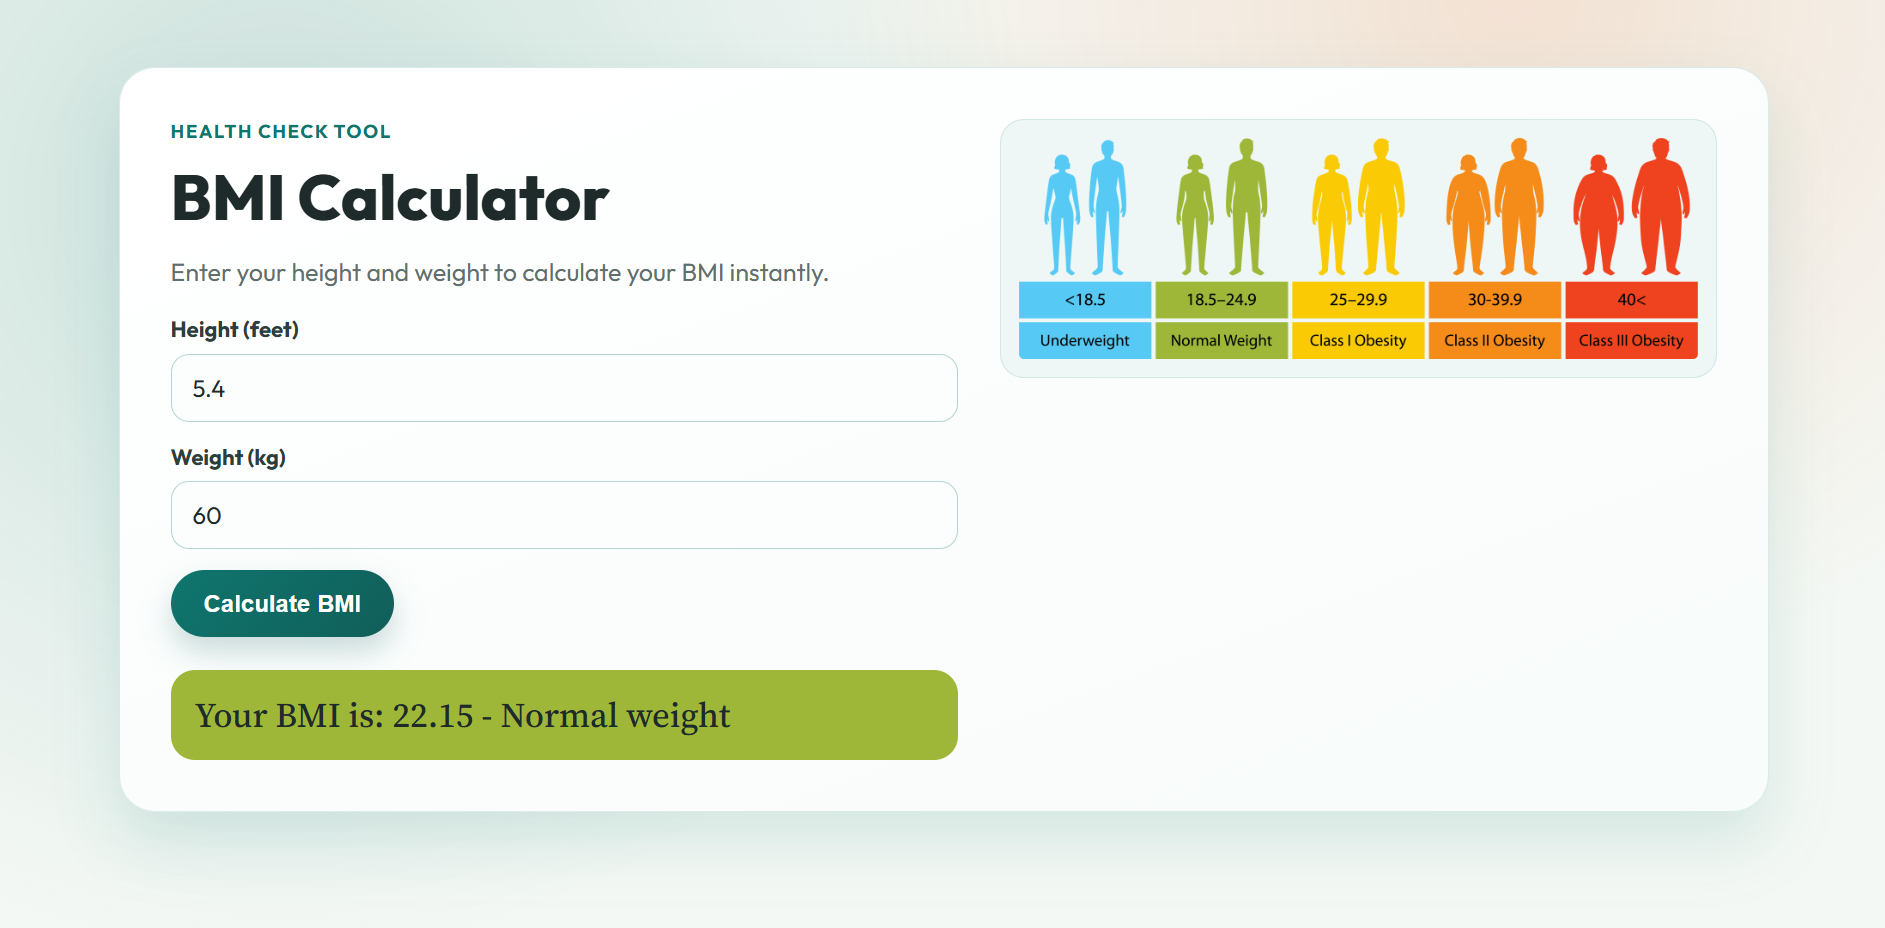
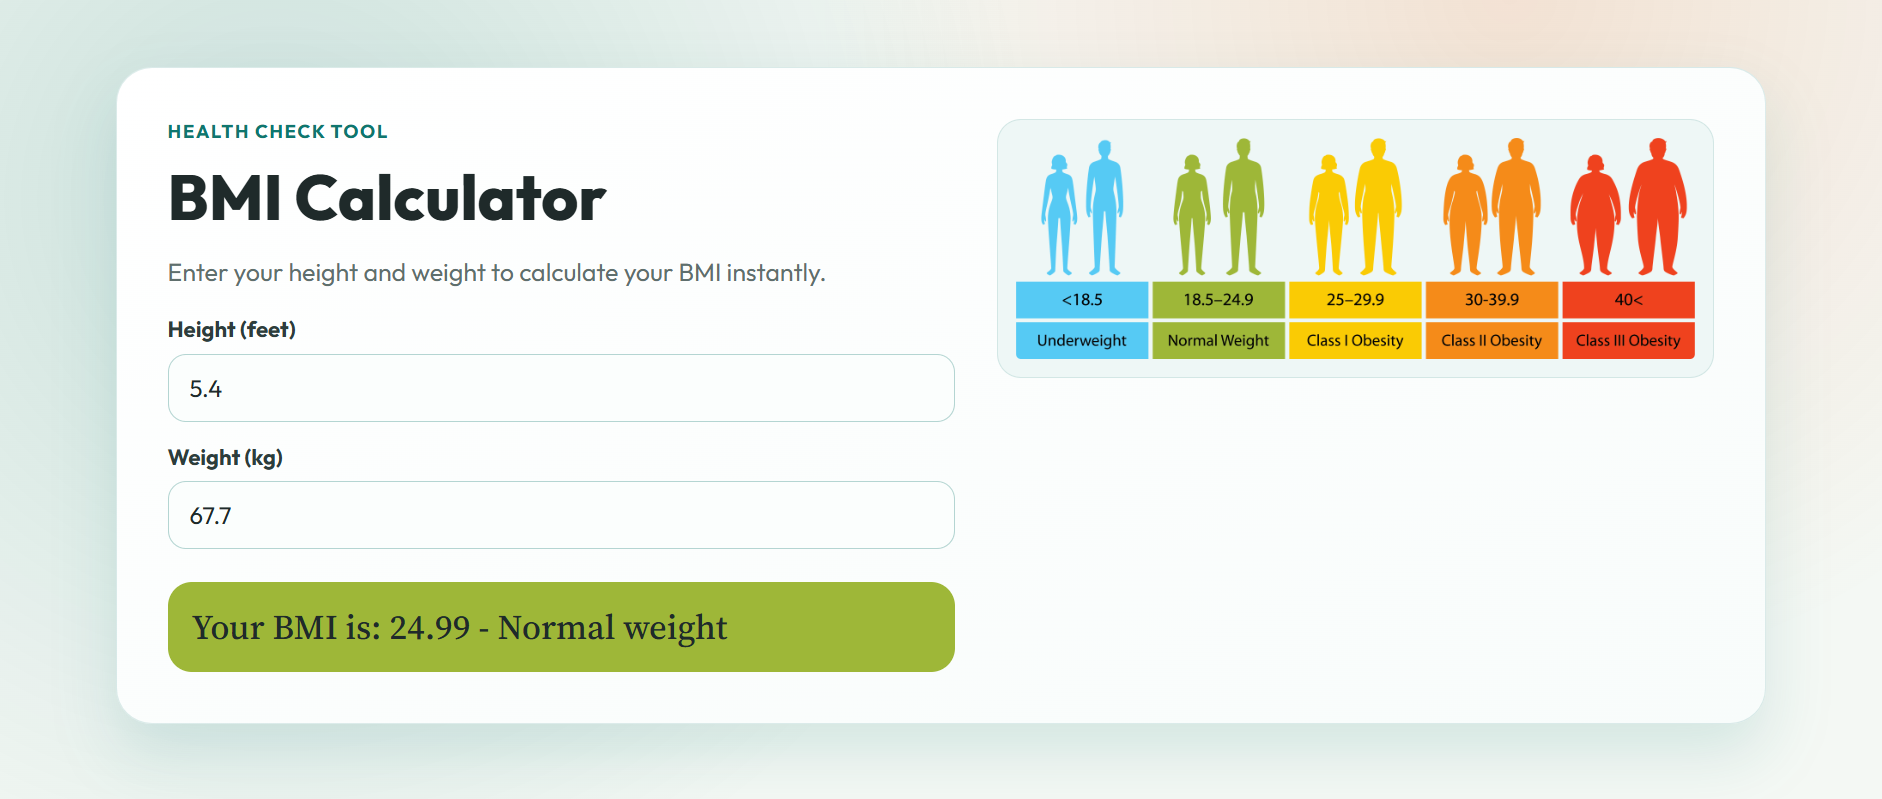
removed button and made live result update on entering value

diff --git a/script.js b/script.js
@@ -1,17 +1,25 @@
+const bmiClasses = ["underweight", "normal-weight", "class-i-obesity", "class-ii-obesity", "class-iii-obesity"];
+
 const calculateBMI = () => {
+    const heightElement = document.getElementById("height");
+    const weightElement = document.getElementById("weight");
+    const resultElement = document.getElementById("result");
+
     // get the height and weight input values
-    const heightInput = document.getElementById("height").value;
-    const weightInput = document.getElementById("weight").value;
+    const heightInput = heightElement.value;
+    const weightInput = weightElement.value;
 
     // convert the input values to numbers
     const heightNum = parseFloat(heightInput);
     const weightNum = parseFloat(weightInput);
 
-    const resultElement = document.getElementById("result");
-    const bmiClasses = ["underweight", "normal-weight", "class-i-obesity", "class-ii-obesity", "class-iii-obesity"];
-
     // Reset old category styles before applying the new one.
     resultElement.classList.remove(...bmiClasses);
+
+    if (heightInput.trim() === "" || weightInput.trim() === "") {
+        resultElement.textContent = "Your BMI result will appear here.";
+        return;
+    }
 
     if (Number.isNaN(heightNum) || Number.isNaN(weightNum) || heightNum <= 0 || weightNum <= 0) {
         resultElement.textContent = "Please enter valid height and weight values.";
@@ -53,4 +61,18 @@ const calculateBMI = () => {
 
     // Display the BMI result and body mass category
     resultElement.textContent = `Your BMI is: ${bmi.toFixed(2)} - ${bodyMass}`;
-}
+};
+
+const setupLiveBMI = () => {
+    const heightElement = document.getElementById("height");
+    const weightElement = document.getElementById("weight");
+
+    const handleInput = () => {
+        calculateBMI();
+    };
+
+    heightElement.addEventListener("input", handleInput);
+    weightElement.addEventListener("input", handleInput);
+};
+
+setupLiveBMI();

diff --git a/index.html b/index.html
@@ -17,7 +17,7 @@
                 <h1>BMI Calculator</h1>
                 <p class="lead">Enter your height and weight to calculate your BMI instantly.</p>
 
-                <form class="bmi-form" onsubmit="event.preventDefault(); calculateBMI();">
+                <form class="bmi-form">
                     <div class="field-group">
                         <label for="height">Height (feet)</label>
                         <input type="number" id="height" name="height" required min="4" max="8" step="0.1" placeholder="e.g. 5.8">
@@ -28,7 +28,6 @@
                         <input type="number" id="weight" name="weight" required min="10" max="500" step="0.1" placeholder="e.g. 72">
                     </div>
 
-                    <button type="submit" class="calc-btn">Calculate BMI</button>
                 </form>
                 <h2 id="result" class="result" aria-live="polite">Your BMI result will appear here.</h2>
             </div>
